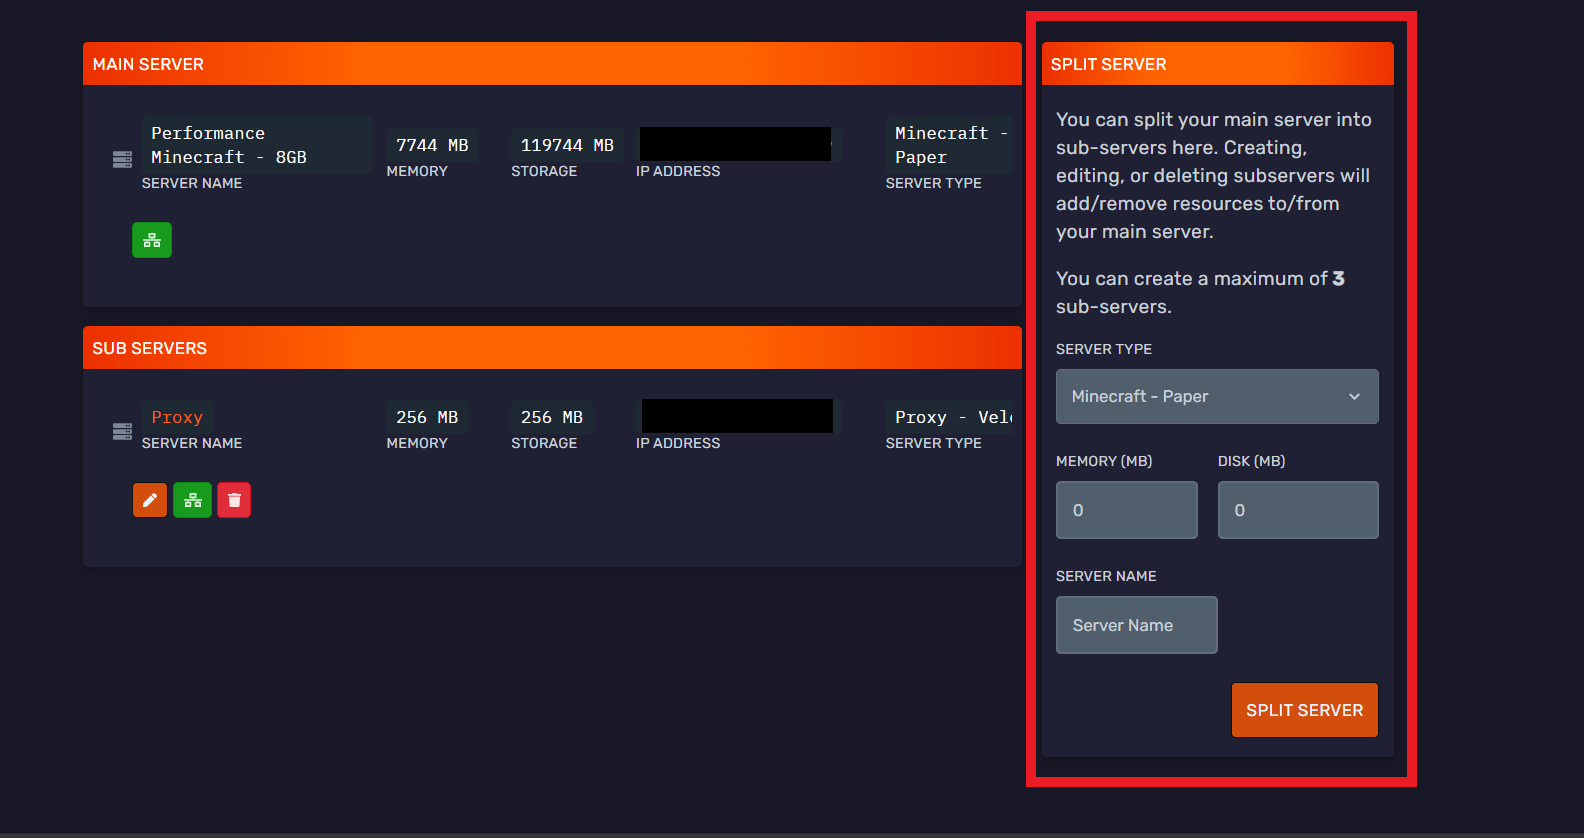
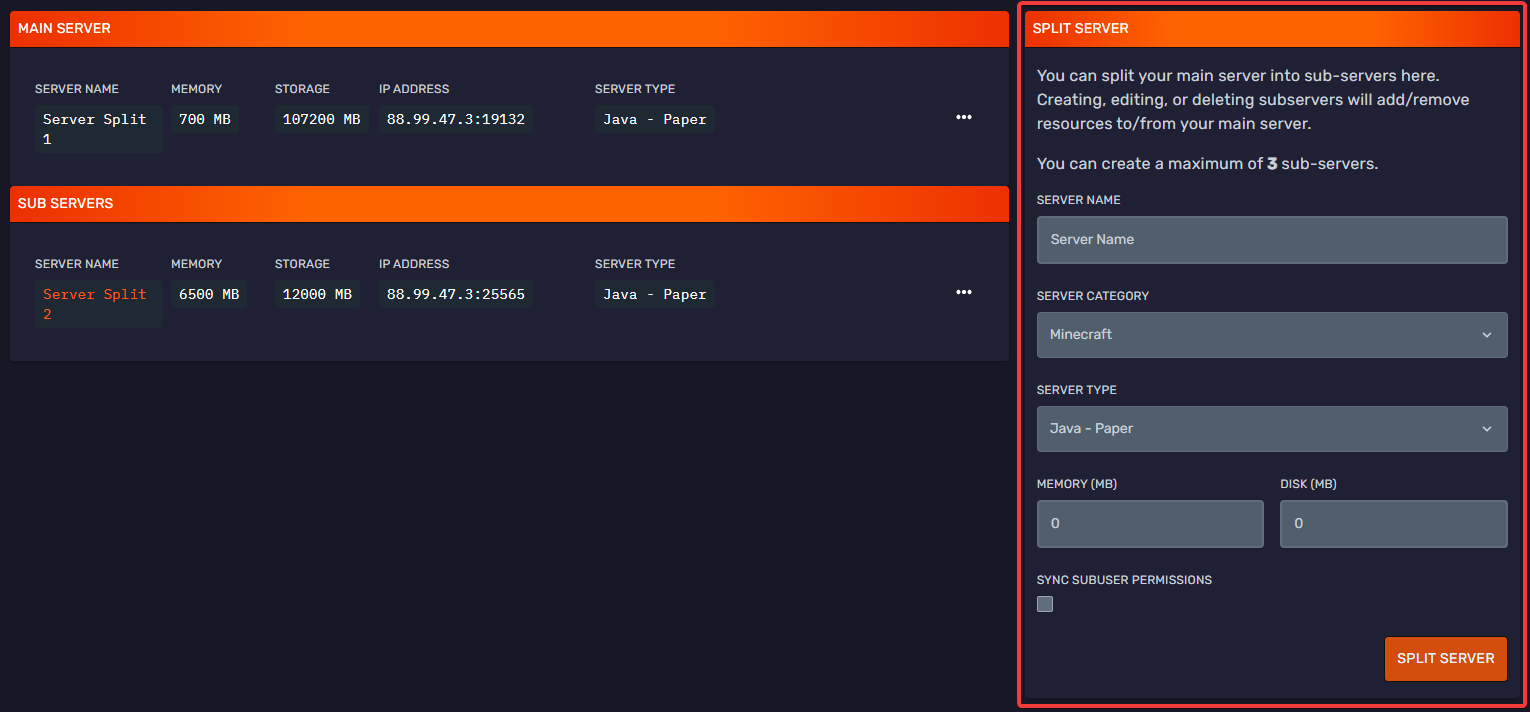
Edit split server doc

Changed region(s): [[0.0, 0.0, 1.0, 1.0], [0.0614, 0.4944, 0.1843, 0.618], [0.2458, 0.4944, 0.3686, 0.5562]]

diff --git a/docs/using_the_panel/split-server.md b/docs/using_the_panel/split-server.md
@@ -44,8 +44,19 @@ Your main server will be restarted by splitting your server as resources will be
 
 Click on `confirm` and your server will be split. Success! You have successfully split your server.
 
+
+## Split Server options
+
+You can change your main server, edit ports, change server type and edit RAM/Storage in the Server Split section.
+
+<div class="text--center"><img src={require('../../static/imgs/using_the_panel/server-importer/4.png').default} alt="console"/></div>
+
 You can interact and manage this new server in the same way as you would with your main server.
 
 When you login to the game panel, you can see your new server in the list of servers you can manage.
 
 ![split](../../static/imgs/using_the_panel/split_server/3.png)
+
+:::important
+The server list sorts servers by alphabetical order, if you want to arrange your server list you can rename your servers using numbers like this: `1. Proxy` `2. Lobby` `3. Survival`. You can rename servers in the settings tab.
+:::
